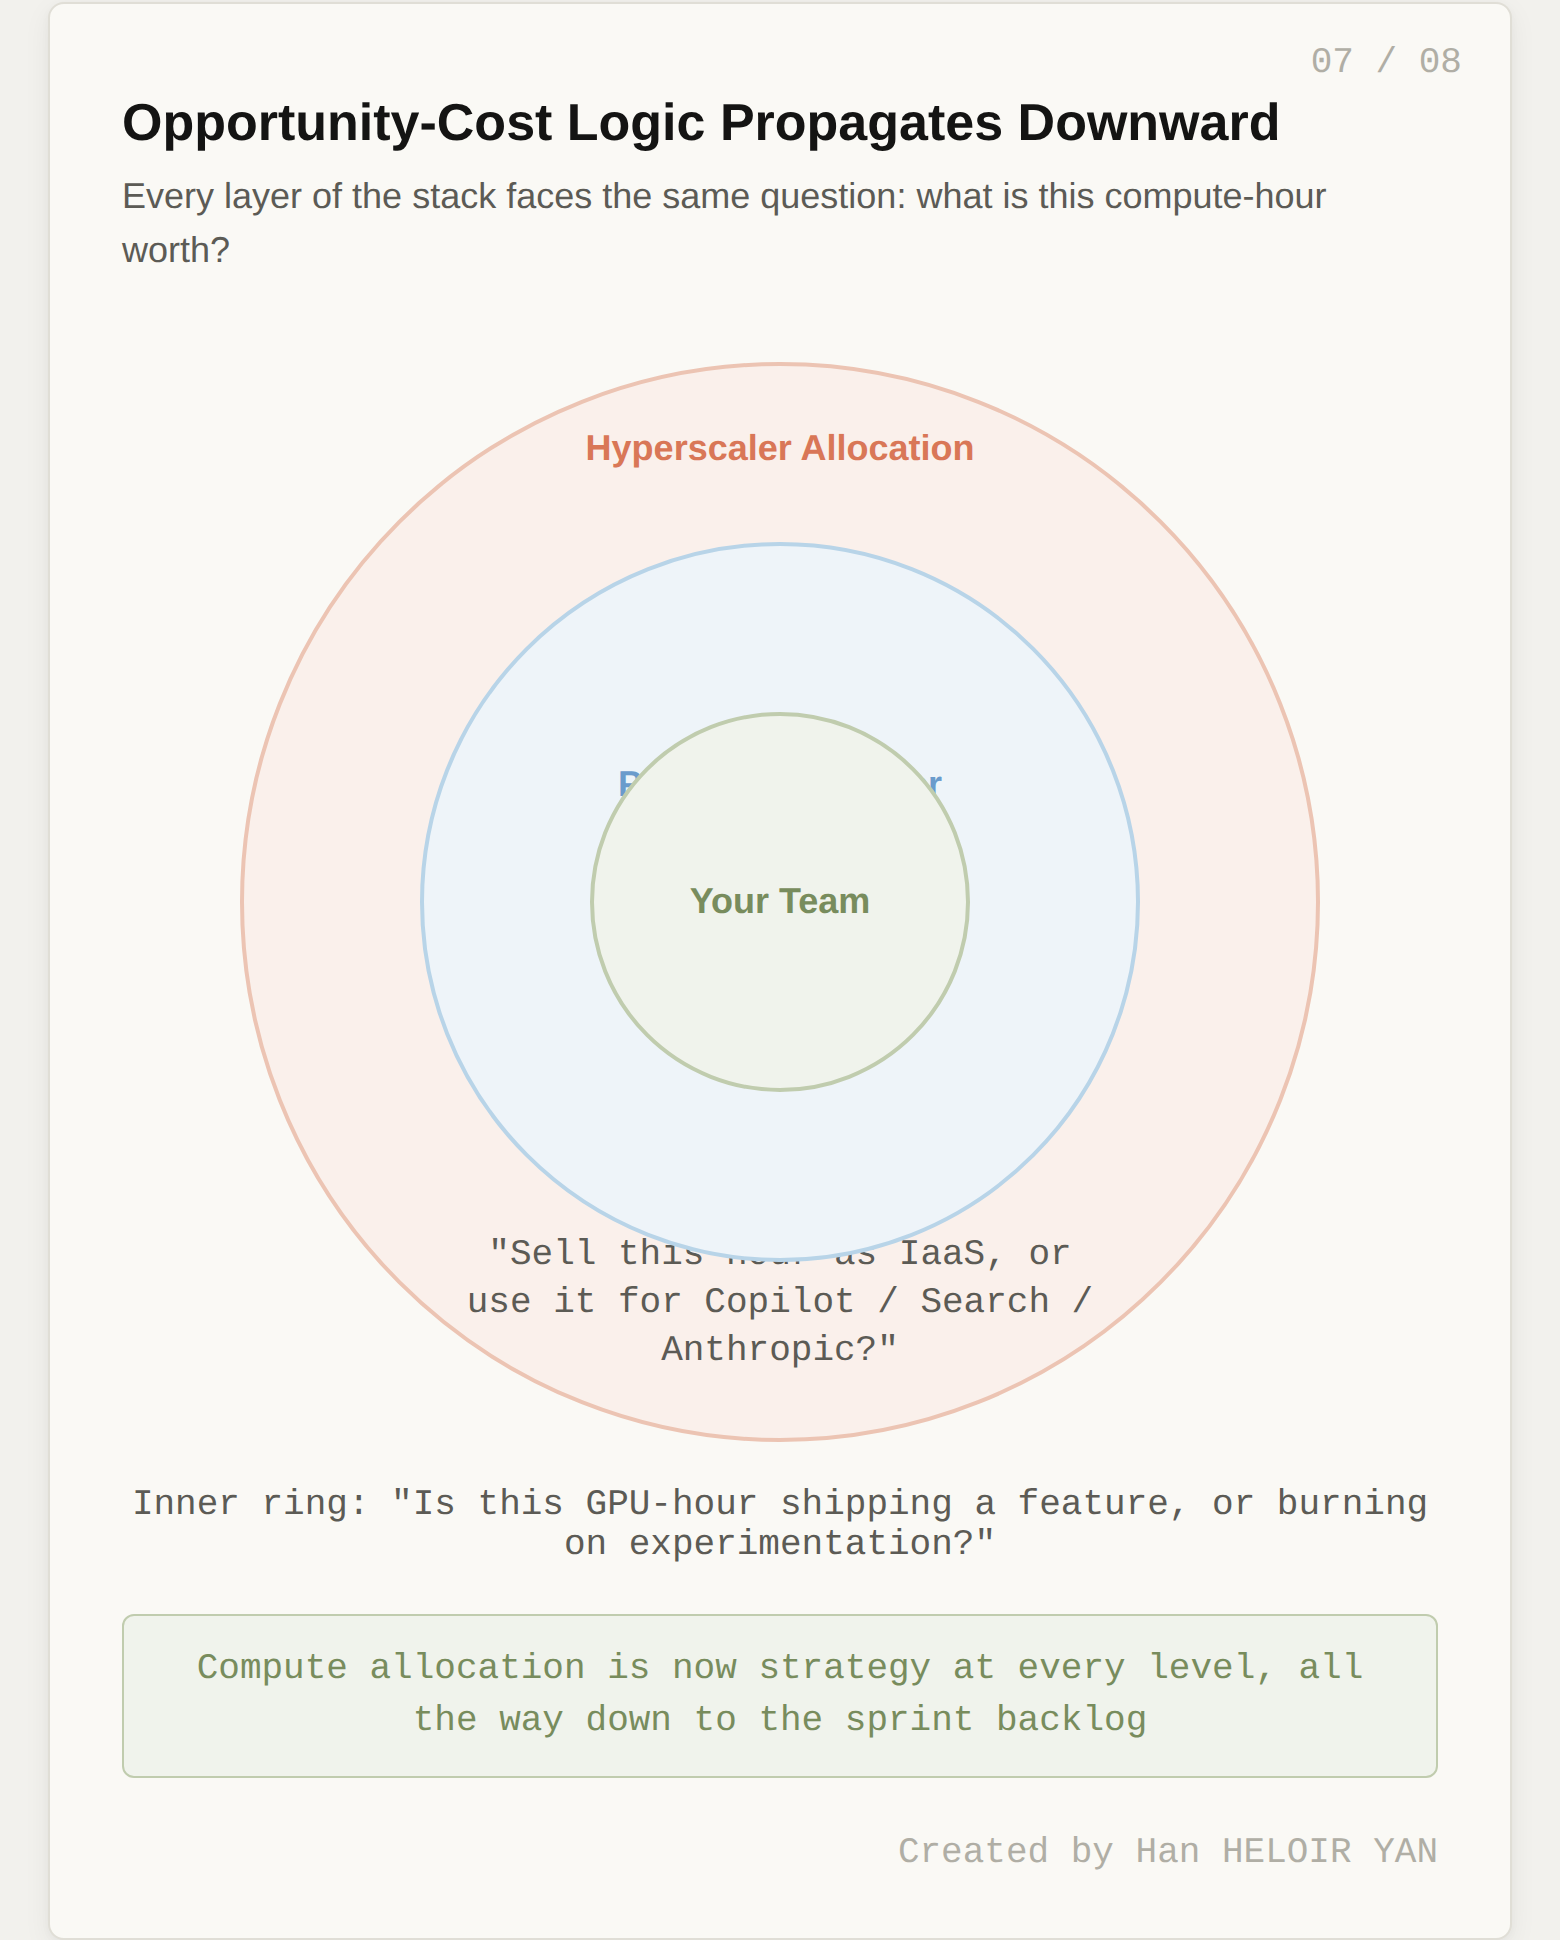
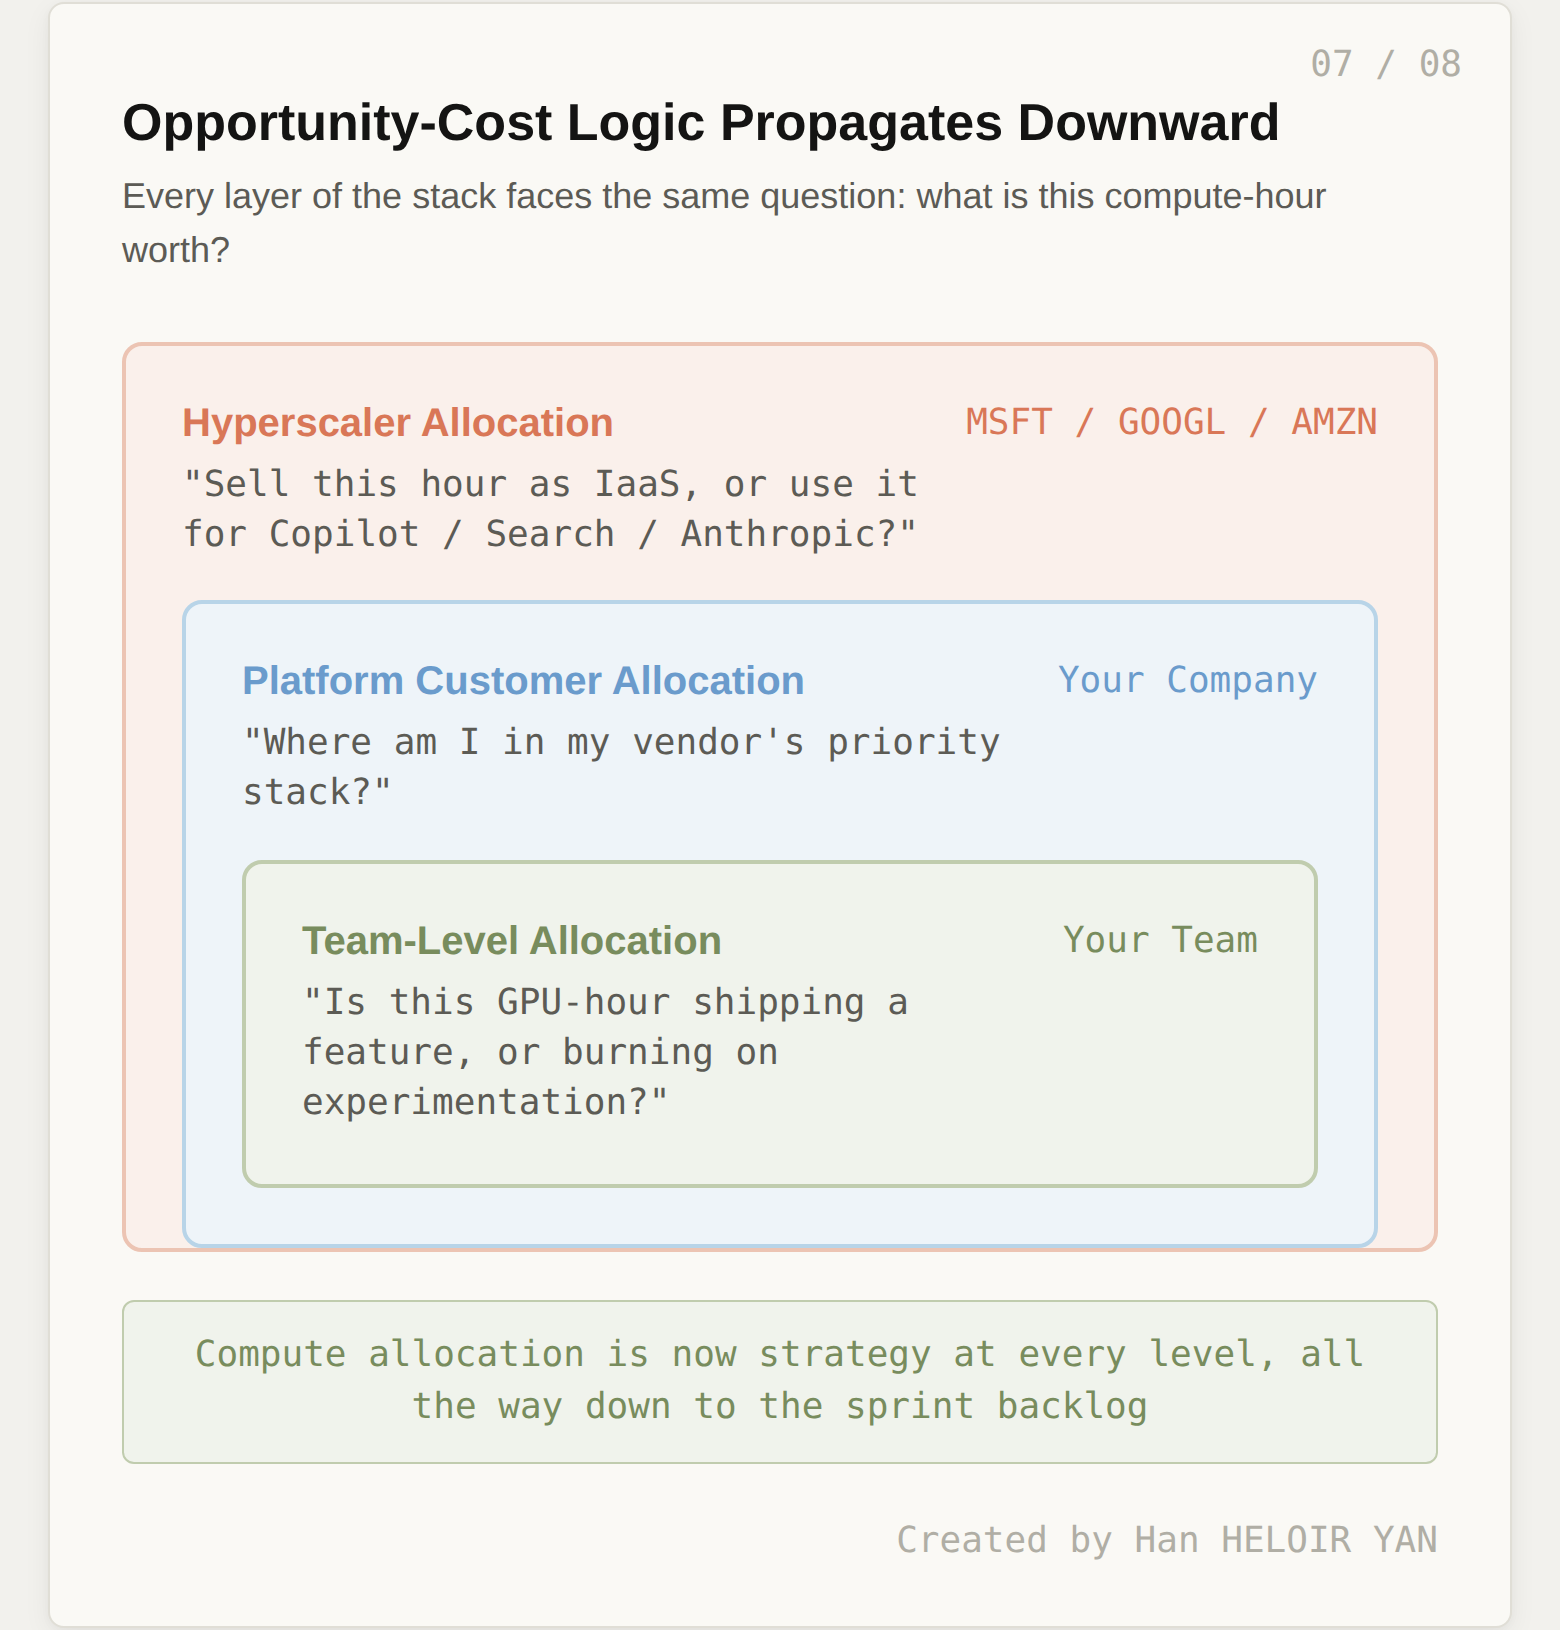
Fix diagram 07: replace concentric rings with nested boxes for readability

diff --git a/diagrams.html b/diagrams.html
@@ -706,30 +706,44 @@ body {
   </div>
 </div>
 
-<!-- D07: CONCENTRIC RINGS -->
+<!-- D07: PROPAGATION LAYERS -->
 <div class="diagram-container">
   <div class="card">
     <div class="card-number">07 / 08</div>
     <div class="card-title">Opportunity-Cost Logic Propagates Downward</div>
     <div class="card-sub">Every layer of the stack faces the same question: what is this compute-hour worth?</div>
     <div class="card-body">
-      <div class="rings-container">
-        <div class="rings-wrapper">
-          <div class="ring ring-outer">
-            <div class="ring-label ring-label-outer">Hyperscaler Allocation</div>
-            <div class="ring-question ring-q-outer">"Sell this hour as IaaS, or use it for Copilot / Search / Anthropic?"</div>
+      <div style="display:flex;flex-direction:column;gap:0">
+        <!-- Layer 1: Hyperscaler -->
+        <div style="background:var(--orange-soft);border:2px solid var(--orange-mid);border-radius:10px;padding:28px 28px 0;position:relative">
+          <div style="display:flex;justify-content:space-between;align-items:flex-start;margin-bottom:20px">
+            <div>
+              <div style="font-size:20px;font-weight:700;color:var(--orange);margin-bottom:6px">Hyperscaler Allocation</div>
+              <div style="font-family:'IBM Plex Mono',monospace;font-size:18px;font-weight:400;color:var(--dark-muted);line-height:1.4">"Sell this hour as IaaS, or use it for Copilot / Search / Anthropic?"</div>
+            </div>
+            <div style="font-family:'IBM Plex Mono',monospace;font-size:18px;font-weight:500;color:var(--orange);white-space:nowrap;margin-left:20px">MSFT / GOOGL / AMZN</div>
           </div>
-          <div class="ring ring-middle">
-            <div class="ring-label ring-label-middle">Platform Customer</div>
-            <div class="ring-question ring-q-middle">"Where am I in my vendor's priority stack?"</div>
-          </div>
-          <div class="ring ring-inner">
-            <div class="ring-label ring-label-inner">Your Team</div>
+          <!-- Layer 2: Platform Customer -->
+          <div style="background:var(--blue-soft);border:2px solid var(--blue-mid);border-radius:10px;padding:28px 28px 0">
+            <div style="display:flex;justify-content:space-between;align-items:flex-start;margin-bottom:20px">
+              <div>
+                <div style="font-size:20px;font-weight:700;color:var(--blue);margin-bottom:6px">Platform Customer Allocation</div>
+                <div style="font-family:'IBM Plex Mono',monospace;font-size:18px;font-weight:400;color:var(--dark-muted);line-height:1.4">"Where am I in my vendor's priority stack?"</div>
+              </div>
+              <div style="font-family:'IBM Plex Mono',monospace;font-size:18px;font-weight:500;color:var(--blue);white-space:nowrap;margin-left:20px">Your Company</div>
+            </div>
+            <!-- Layer 3: Team -->
+            <div style="background:var(--green-soft);border:2px solid var(--green-mid);border-radius:10px;padding:28px;margin-bottom:28px">
+              <div style="display:flex;justify-content:space-between;align-items:flex-start">
+                <div>
+                  <div style="font-size:20px;font-weight:700;color:var(--green);margin-bottom:6px">Team-Level Allocation</div>
+                  <div style="font-family:'IBM Plex Mono',monospace;font-size:18px;font-weight:400;color:var(--dark-muted);line-height:1.4">"Is this GPU-hour shipping a feature, or burning on experimentation?"</div>
+                </div>
+                <div style="font-family:'IBM Plex Mono',monospace;font-size:18px;font-weight:500;color:var(--green);white-space:nowrap;margin-left:20px">Your Team</div>
+              </div>
+            </div>
           </div>
         </div>
-      </div>
-      <div style="text-align:center;margin-top:12px">
-        <span style="font-family:'IBM Plex Mono',monospace;font-size:18px;color:var(--dark-muted)">Inner ring: "Is this GPU-hour shipping a feature, or burning on experimentation?"</span>
       </div>
     </div>
     <div class="callout callout-green">Compute allocation is now strategy at every level, all the way down to the sprint backlog</div>
